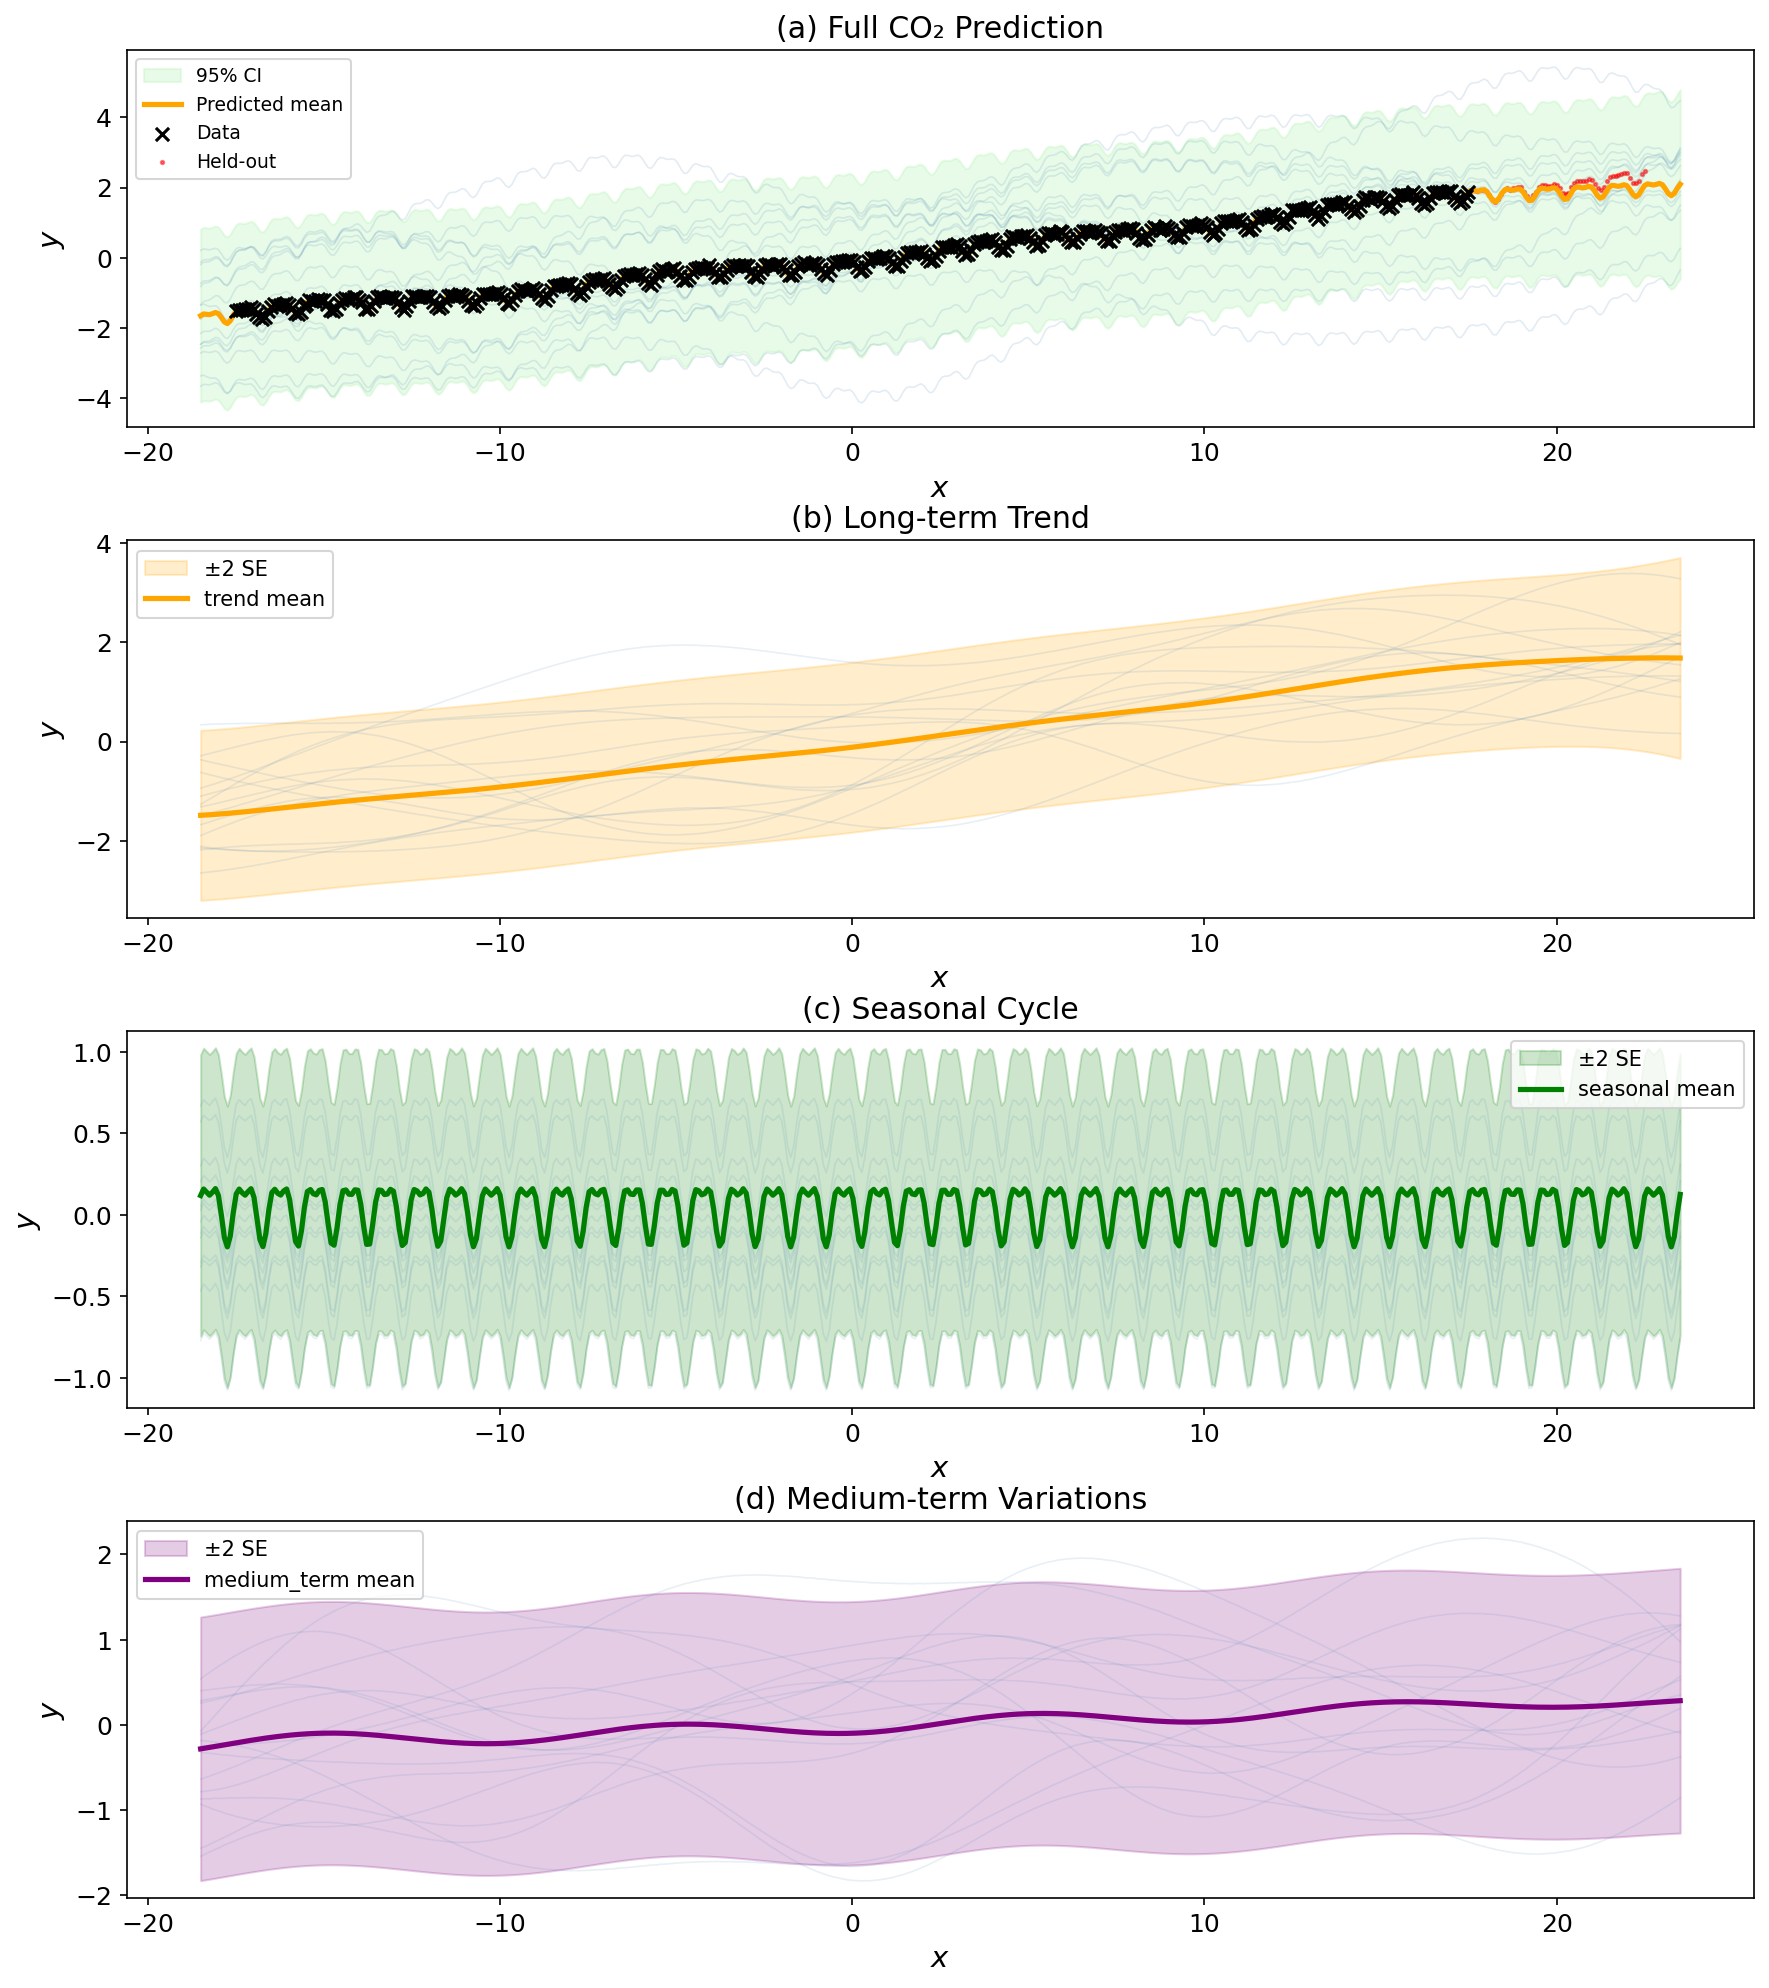
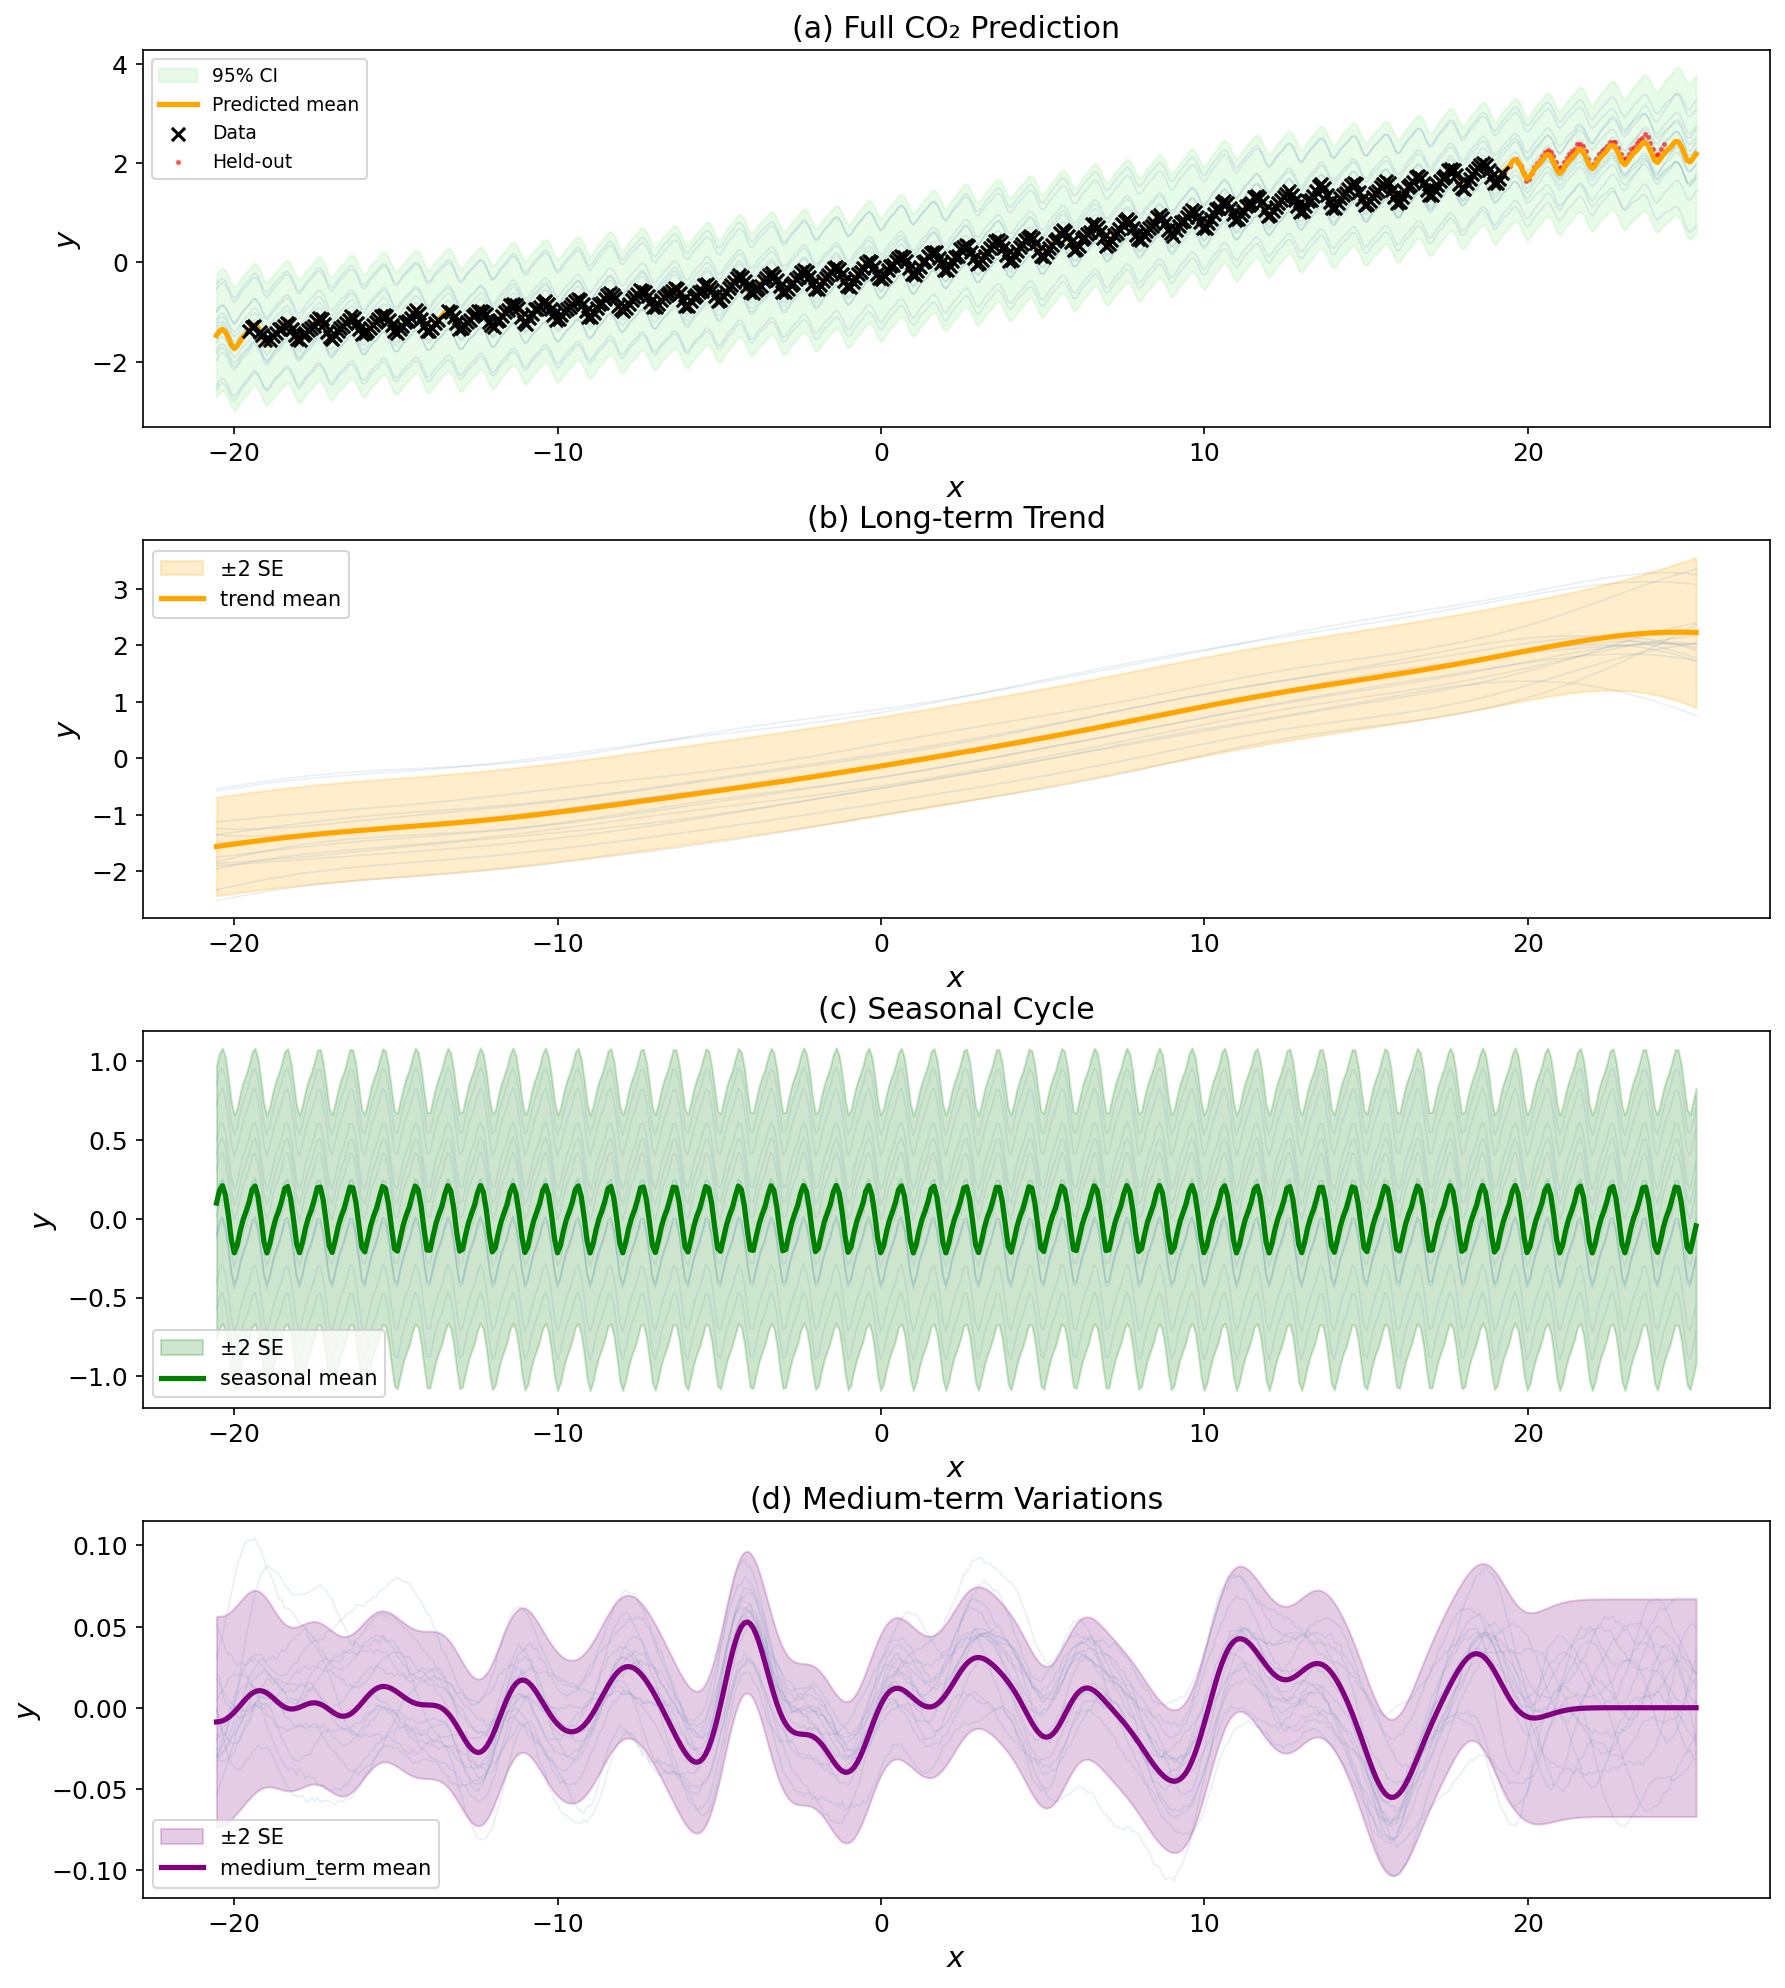
mauna loa -- works

diff --git a/bistar_gp/data.py b/bistar_gp/data.py
@@ -40,16 +40,89 @@ def load_mauna_loa(normalize=True, test_years=5.0):
     Load Mauna Loa CO2 from sklearn. Falls back to synthetic approximation.
     Returns (x_train, y_train, x_test, y_test, info).
     """
+    #Aggregated data below - monthly averages
     try:
         from sklearn.datasets import fetch_openml
         co2 = fetch_openml(data_id=41187, as_frame=True)
         df = co2.frame
-        df = df[df["average"] > 0]
-        x_all = df["year"].values.astype(float) + (df["month"].values.astype(float) - 1) / 12.0
-        y_all = df["average"].values.astype(float)
-    except Exception:
-        print("Could not load from sklearn. Using synthetic approximation.")
-        x_all, y_all = _synthetic_mauna_loa()
+        print(f"  Columns: {df.columns.tolist()}")
+
+        # Handle column names
+        cols = {c.lower(): c for c in df.columns}
+        year_col = cols.get("year")
+        month_col = cols.get("month")
+        co2_col = cols.get("average") or cols.get("co2")
+
+        if co2_col is None:
+            co2_col = "co2"
+            df[co2_col] = co2.target.astype(float)
+
+        df[co2_col] = df[co2_col].astype(float)
+        df[year_col] = df[year_col].astype(float)
+        df[month_col] = df[month_col].astype(float)
+
+        # Drop invalid readings
+        df = df[df[co2_col] > 0]
+
+        # Aggregate to monthly means (handles daily/weekly data)
+        df["year_month"] = df[year_col].astype(int).astype(str) + "-" + df[month_col].astype(int).astype(str).str.zfill(2)
+        monthly = df.groupby("year_month").agg({
+            year_col: "first",
+            month_col: "first",
+            co2_col: "mean",
+        }).reset_index()
+
+        x_all = monthly[year_col].values + (monthly[month_col].values - 1) / 12.0
+        y_all = monthly[co2_col].values
+        print(f"  Aggregated to {len(x_all)} monthly observations")
+    except Exception as e:
+        print(f"Could not load from sklearn: {e}")
+        import traceback
+        traceback.print_exc()
+        #x_all, y_all = _synthetic_mauna_loa()
+
+
+
+    #Non aggregated data below
+    # try:
+    #     from sklearn.datasets import fetch_openml
+    #     co2 = fetch_openml(data_id=41187, as_frame=True)
+    #     df = co2.frame
+    #     print(f"  Columns: {df.columns.tolist()}")
+        
+    #     # Handle different column naming conventions
+    #     cols = [c.lower() for c in df.columns]
+    #     col_map = {c.lower(): c for c in df.columns}
+        
+    #     # Find year, month, CO2 columns
+    #     year_col = col_map.get("year") or col_map.get("yr")
+    #     month_col = col_map.get("month") or col_map.get("mon")
+    #     co2_col = col_map.get("average") or col_map.get("co2") or col_map.get("target")
+        
+    #     # If no 'average' column, check if target is separate
+    #     if co2_col is None:
+    #         # Some sklearn versions put target separately
+    #         co2_col = "co2"
+    #         df[co2_col] = co2.target.astype(float)
+        
+    #     if year_col is None or month_col is None:
+    #         raise ValueError(f"Cannot find year/month columns in: {df.columns.tolist()}")
+        
+    #     df = df[df[co2_col].astype(float) > 0]
+    #     x_all = df[year_col].values.astype(float) + (df[month_col].values.astype(float) - 1) / 12.0
+    #     y_all = df[co2_col].values.astype(float)
+    except Exception as e:
+        print(f"Could not load from sklearn: {e}")
+        import traceback
+        traceback.print_exc()
+        #x_all, y_all = _synthetic_mauna_loa()
+    #except Exception:
+    #    #print("Could not load from sklearn. Using synthetic approximation.")
+    #    #x_all, y_all = _synthetic_mauna_loa()
+    #    print(f"Could not load from sklearn: {e}")
+    #    import traceback
+    #    traceback.print_exc()
+
 
     idx = np.argsort(x_all)
     x_all, y_all = x_all[idx], y_all[idx]
